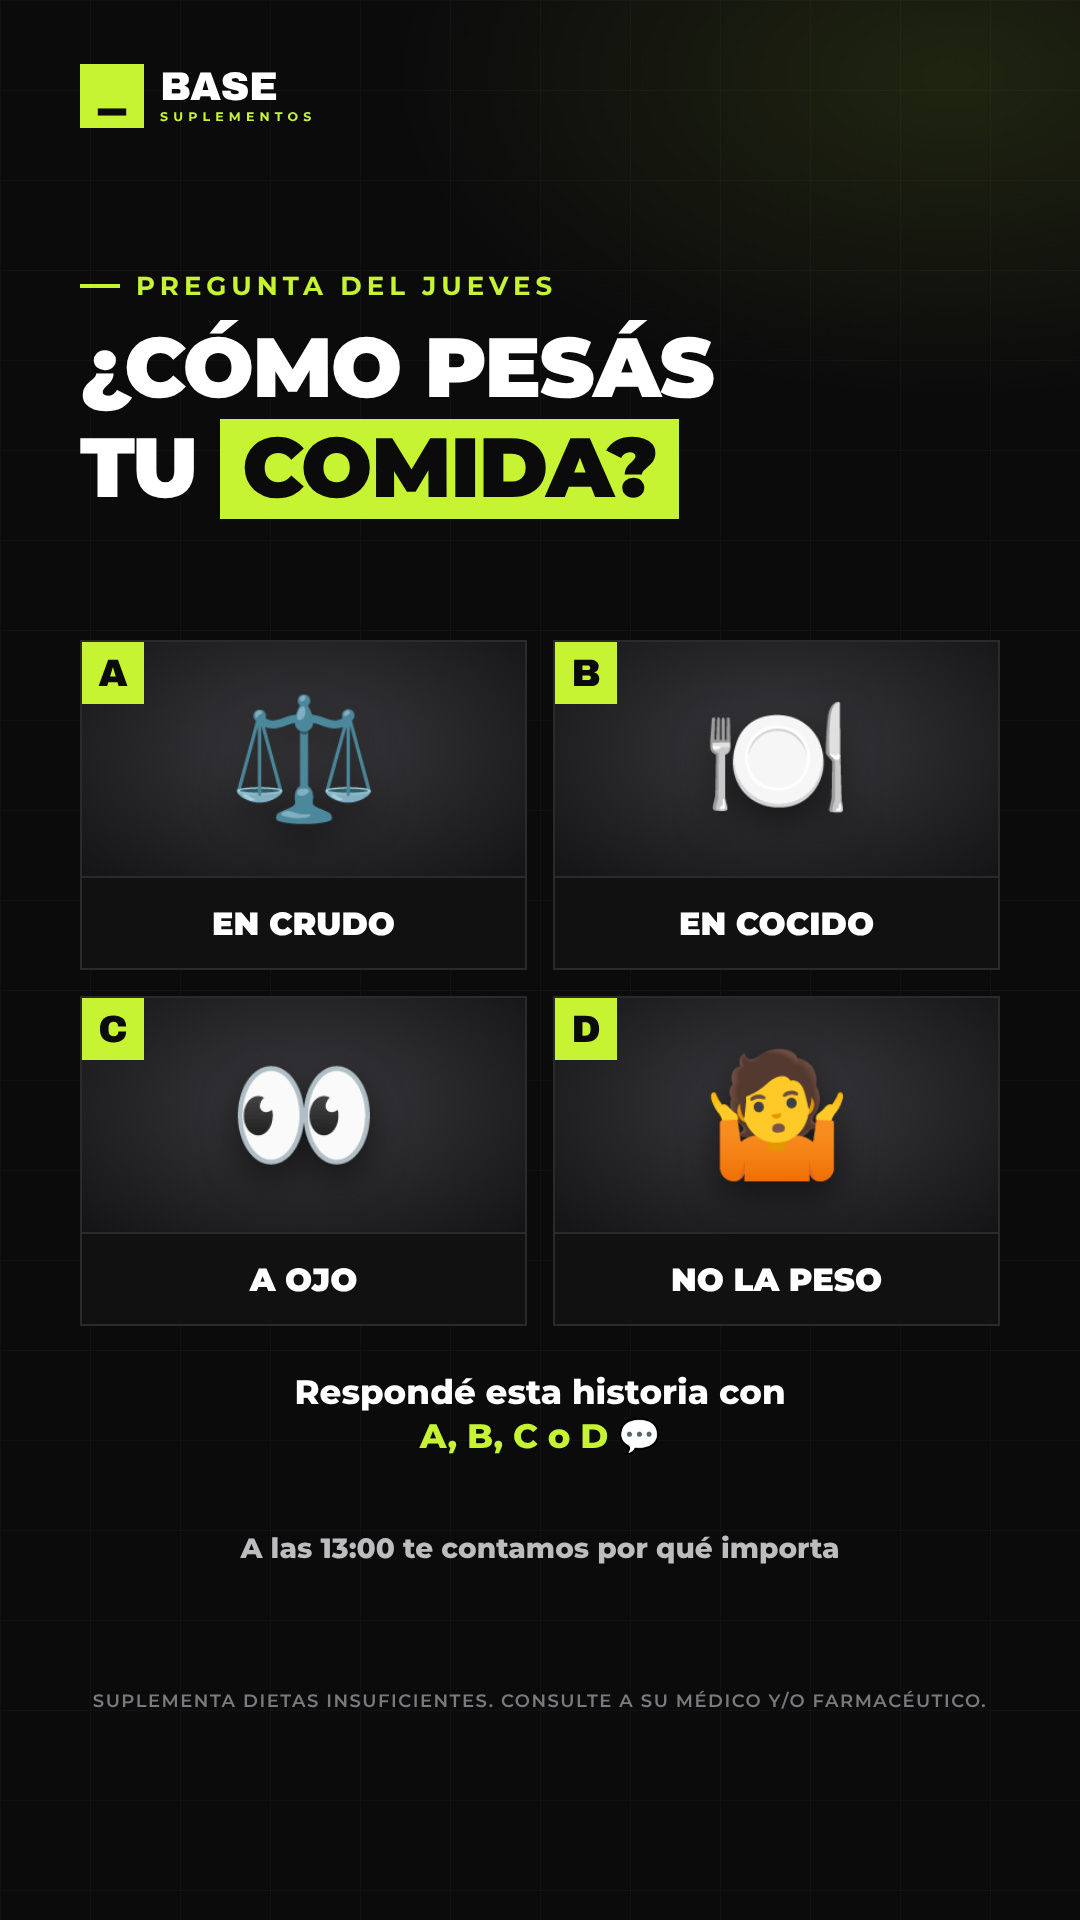
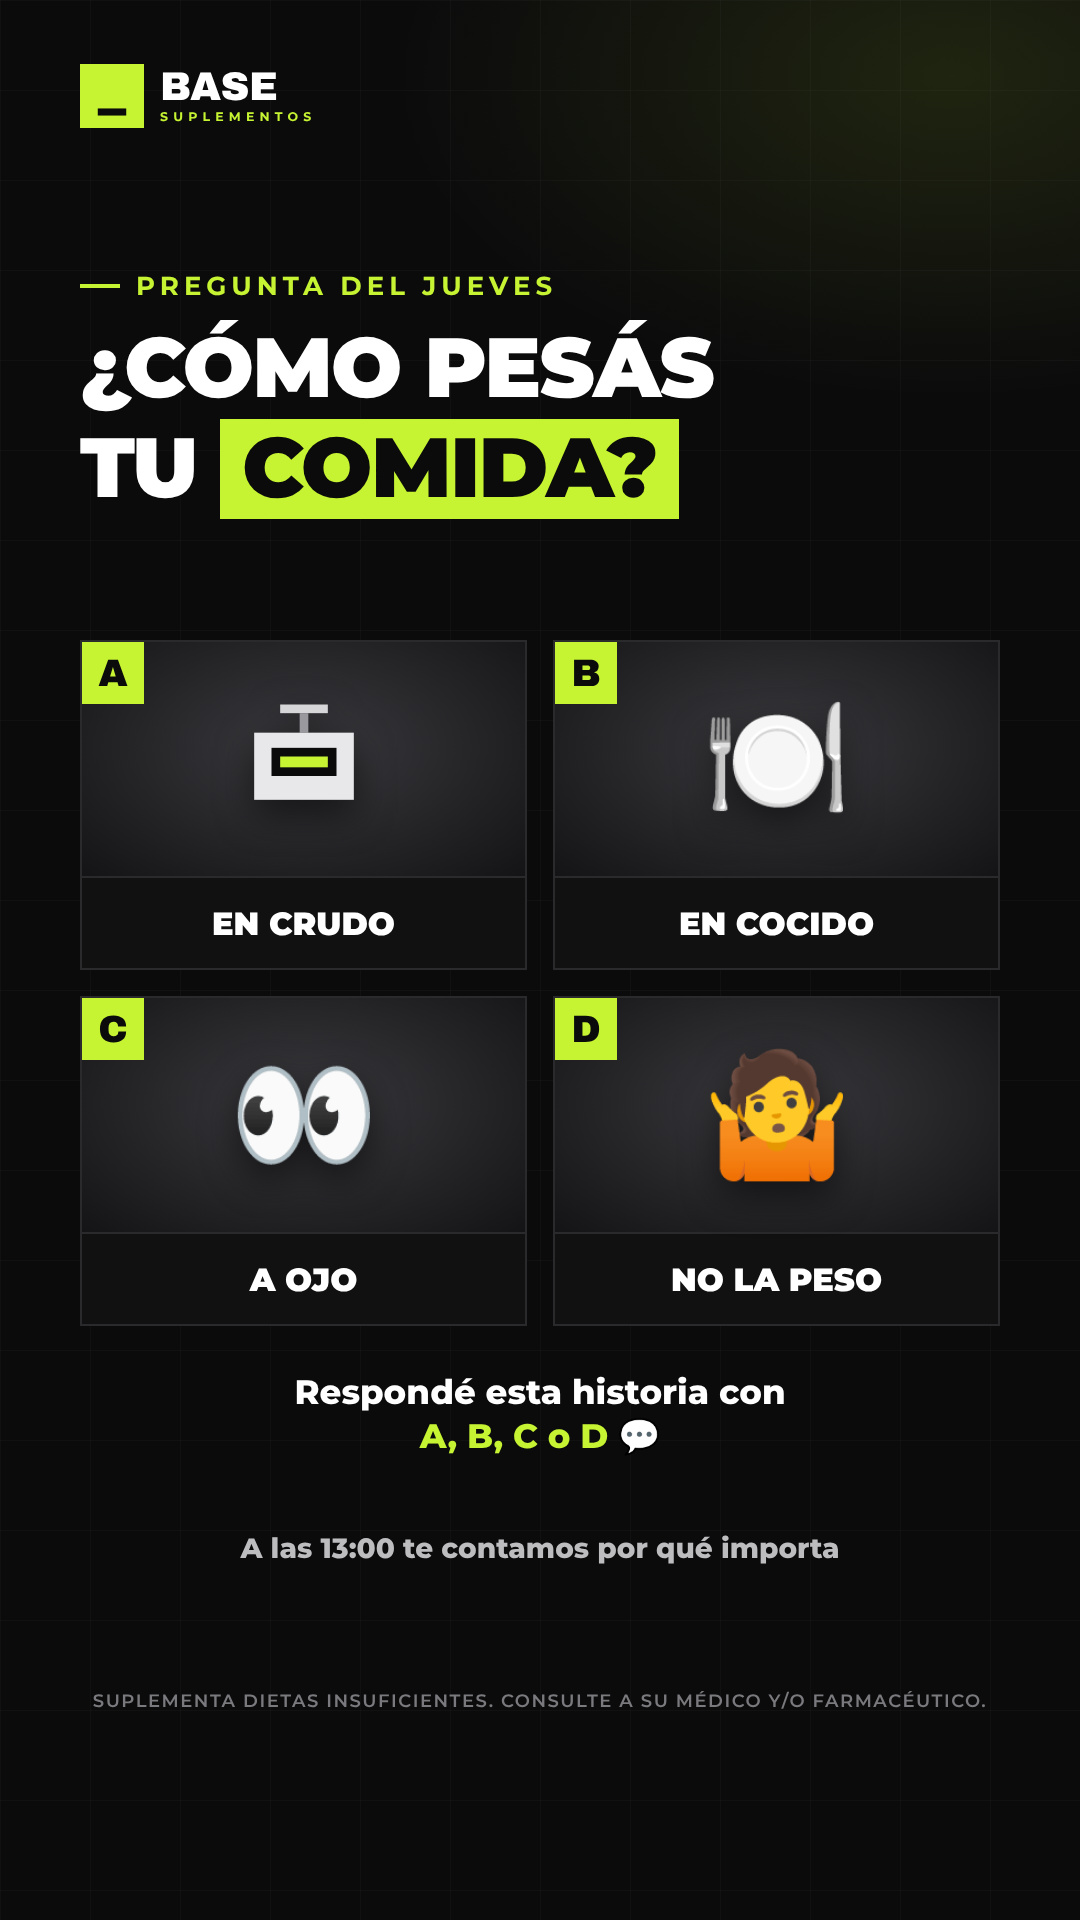
Contenido 2026-11-26: correcciones de la revisión
Claude-Session: https://claude.ai/code/session_01K6ccN48J2ed5Fjs4uTdjt6

Changed region(s): [[0.2139, 0.3438, 0.3361, 0.4375]]

diff --git a/kit/2026-11-26_posts.py b/kit/2026-11-26_posts.py
@@ -49,11 +49,17 @@ ST = '''<style>
 .mini img{height:250px;filter:drop-shadow(0 16px 22px rgba(0,0,0,.6))}
 </style>'''
 
+BALANZA = ('<svg viewBox="0 0 120 120" width="{w}" height="{w}"><rect x="38" y="18" width="44" height="8" fill="#d6d6d8"/>'
+           '<rect x="56" y="26" width="8" height="18" fill="#9a9a9e"/><rect x="14" y="44" width="92" height="62" fill="#e8e8ea"/>'
+           '<rect x="30" y="58" width="60" height="26" fill="#0B0B0C"/><rect x="38" y="66" width="44" height="10" fill="#C6F432"/></svg>')
+PECHUGA = ('<svg viewBox="0 0 120 120" width="140" height="140"><path d="M20 70 C14 40 40 18 70 22 C98 26 108 52 98 74 C88 98 52 104 34 94 C26 90 22 82 20 70 Z" fill="#F2C6A8" stroke="#D99A78" stroke-width="4"/>'
+           '<path d="M40 54 C55 46 72 46 86 54 M38 70 C55 62 74 62 90 70" stroke="#E0A988" stroke-width="4" fill="none"/></svg>')
+
 
 def fila(top, emoji, nombre, a_lab, a, b_lab, b, on='b'):
     ca = ' on' if on == 'a' else ''
     cb = ' on' if on == 'b' else ''
-    return (f'<div class="row" style="top:{top}px"><div class="ic">{E(emoji)}<b>{nombre}</b></div>'
+    return (f'<div class="row" style="top:{top}px"><div class="ic">{emoji if emoji.startswith("<svg") else E(emoji)}<b>{nombre}</b></div>'
             f'<div class="c{ca}"><small>{a_lab}</small><b>{a}<i>g</i></b></div><div class="ar">→</div>'
             f'<div class="c{cb}"><small>{b_lab}</small><b>{b}<i>g</i></b></div></div>')
 
@@ -77,15 +83,15 @@ a2 += '<div class="src" style="top:1135px">Fideos tipo spaghetti y arroz blanco,
 # 3 · El porqué + el giro: con la carne pasa al revés
 a3 = ST + '<div class="eb" style="top:190px">¿Por qué?</div>'
 a3 += '<div class="t" style="top:240px;font-size:72px">El agua<br><span class="box">cambia el peso</span></div>'
-a3 += f'<div class="why" style="top:450px">{E("💧")}<p>Al hervirlos <b>absorben agua</b>: pesan más, pero la proteína es la misma. Cada 100 g rinde menos.</p></div>'
+a3 += f'<div class="why" style="top:450px">{E("💧")}<p>Los fideos y el arroz, al hervirlos, <b>absorben agua</b>: pesan más, pero la proteína es la misma. Cada 100 g rinde menos.</p></div>'
 a3 += '<div class="txt" style="top:660px;font-size:33px"><b>Con la carne pasa al revés:</b> al cocinarse <em>pierde agua.</em></div>'
-a3 += fila(790, '🍗', 'Pechuga', 'cruda', '22,5', 'asada', '31')
+a3 += fila(790, PECHUGA, 'Pechuga', 'cruda', '22,5', 'asada', '31')
 a3 += '<div class="src" style="top:1070px">Pechuga de pollo sin piel, cada 100 g.<br>Fuente: <b>USDA FoodData Central</b>.</div>'
 
 # 4 · Qué hacer + cierre (guardar / compartir / comentar)
 a4 = ST + '<div class="eb" style="top:190px">Cómo no errarle</div>'
 a4 += '<div class="t" style="top:240px;font-size:72px">Pesá y leé<br><span class="box">igual</span></div>'
-a4 += (f'<div class="st" style="top:450px">{E("⚖")}<p><b>Pesá en crudo</b>y usá la tabla del <em>paquete.</em></p></div>'
+a4 += (f'<div class="st" style="top:450px"><div style="flex:0 0 100px;display:flex;justify-content:center">{BALANZA.format(w=96)}</div><p><b>Pesá en crudo</b>y usá la tabla del <em>paquete.</em></p></div>'
        f'<div class="st" style="top:645px">{E("🍽")}<p><b>¿Pesás en cocido?</b>Usá valores de alimento <em>cocido.</em></p></div>')
 a4 += (f'<div class="cta" style="top:880px">{E("📌",30)} <span>Guardalo</span> para tu próxima comida<br>'
        f'{E("📲",30)} <span>Mandáselo</span> al que cuenta la proteína del plato<br>'
@@ -115,5 +121,5 @@ b3 += ('<div style="position:absolute;left:410px;right:80px;top:470px"><div styl
 b3 += (f'<div class="st" style="top:790px;height:140px">{E("💬")}<p><b>Por WhatsApp</b><em>10% OFF</em> pagando por transferencia o efectivo.</p></div>'
        f'<div class="st" style="top:950px;height:140px">{E("💳")}<p><b>Online en la web</b>Con <em>Mercado Pago</em>, a precio de lista.</p></div>')
 b3 += '<div class="fine" style="top:1110px">Envíos a todo el país, a cargo de quien compra. WhatsApp 11 2178-9431, solo mensajes.</div>'
-b3 += f'<div class="btn" style="left:80px;bottom:76px;font-size:27px">{E("🛒",27)} PEDÍ LA TUYA · LINK EN LA BIO {ARROW}</div>'
+b3 += f'<div class="btn" style="left:80px;bottom:76px;font-size:27px">{E("🛒",27)} VER CATÁLOGO · LINK EN LA BIO {ARROW}</div>'
 print(render([page(1, b1, True, 3), page(2, b2, True, 3), page(3, b3, False, 3)], f'{OUT}/post2'))

diff --git a/queue/2026-11-26/2026-11-26_posts.py b/queue/2026-11-26/2026-11-26_posts.py
@@ -49,11 +49,17 @@ ST = '''<style>
 .mini img{height:250px;filter:drop-shadow(0 16px 22px rgba(0,0,0,.6))}
 </style>'''
 
+BALANZA = ('<svg viewBox="0 0 120 120" width="{w}" height="{w}"><rect x="38" y="18" width="44" height="8" fill="#d6d6d8"/>'
+           '<rect x="56" y="26" width="8" height="18" fill="#9a9a9e"/><rect x="14" y="44" width="92" height="62" fill="#e8e8ea"/>'
+           '<rect x="30" y="58" width="60" height="26" fill="#0B0B0C"/><rect x="38" y="66" width="44" height="10" fill="#C6F432"/></svg>')
+PECHUGA = ('<svg viewBox="0 0 120 120" width="140" height="140"><path d="M20 70 C14 40 40 18 70 22 C98 26 108 52 98 74 C88 98 52 104 34 94 C26 90 22 82 20 70 Z" fill="#F2C6A8" stroke="#D99A78" stroke-width="4"/>'
+           '<path d="M40 54 C55 46 72 46 86 54 M38 70 C55 62 74 62 90 70" stroke="#E0A988" stroke-width="4" fill="none"/></svg>')
+
 
 def fila(top, emoji, nombre, a_lab, a, b_lab, b, on='b'):
     ca = ' on' if on == 'a' else ''
     cb = ' on' if on == 'b' else ''
-    return (f'<div class="row" style="top:{top}px"><div class="ic">{E(emoji)}<b>{nombre}</b></div>'
+    return (f'<div class="row" style="top:{top}px"><div class="ic">{emoji if emoji.startswith("<svg") else E(emoji)}<b>{nombre}</b></div>'
             f'<div class="c{ca}"><small>{a_lab}</small><b>{a}<i>g</i></b></div><div class="ar">→</div>'
             f'<div class="c{cb}"><small>{b_lab}</small><b>{b}<i>g</i></b></div></div>')
 
@@ -77,15 +83,15 @@ a2 += '<div class="src" style="top:1135px">Fideos tipo spaghetti y arroz blanco,
 # 3 · El porqué + el giro: con la carne pasa al revés
 a3 = ST + '<div class="eb" style="top:190px">¿Por qué?</div>'
 a3 += '<div class="t" style="top:240px;font-size:72px">El agua<br><span class="box">cambia el peso</span></div>'
-a3 += f'<div class="why" style="top:450px">{E("💧")}<p>Al hervirlos <b>absorben agua</b>: pesan más, pero la proteína es la misma. Cada 100 g rinde menos.</p></div>'
+a3 += f'<div class="why" style="top:450px">{E("💧")}<p>Los fideos y el arroz, al hervirlos, <b>absorben agua</b>: pesan más, pero la proteína es la misma. Cada 100 g rinde menos.</p></div>'
 a3 += '<div class="txt" style="top:660px;font-size:33px"><b>Con la carne pasa al revés:</b> al cocinarse <em>pierde agua.</em></div>'
-a3 += fila(790, '🍗', 'Pechuga', 'cruda', '22,5', 'asada', '31')
+a3 += fila(790, PECHUGA, 'Pechuga', 'cruda', '22,5', 'asada', '31')
 a3 += '<div class="src" style="top:1070px">Pechuga de pollo sin piel, cada 100 g.<br>Fuente: <b>USDA FoodData Central</b>.</div>'
 
 # 4 · Qué hacer + cierre (guardar / compartir / comentar)
 a4 = ST + '<div class="eb" style="top:190px">Cómo no errarle</div>'
 a4 += '<div class="t" style="top:240px;font-size:72px">Pesá y leé<br><span class="box">igual</span></div>'
-a4 += (f'<div class="st" style="top:450px">{E("⚖")}<p><b>Pesá en crudo</b>y usá la tabla del <em>paquete.</em></p></div>'
+a4 += (f'<div class="st" style="top:450px"><div style="flex:0 0 100px;display:flex;justify-content:center">{BALANZA.format(w=96)}</div><p><b>Pesá en crudo</b>y usá la tabla del <em>paquete.</em></p></div>'
        f'<div class="st" style="top:645px">{E("🍽")}<p><b>¿Pesás en cocido?</b>Usá valores de alimento <em>cocido.</em></p></div>')
 a4 += (f'<div class="cta" style="top:880px">{E("📌",30)} <span>Guardalo</span> para tu próxima comida<br>'
        f'{E("📲",30)} <span>Mandáselo</span> al que cuenta la proteína del plato<br>'
@@ -115,5 +121,5 @@ b3 += ('<div style="position:absolute;left:410px;right:80px;top:470px"><div styl
 b3 += (f'<div class="st" style="top:790px;height:140px">{E("💬")}<p><b>Por WhatsApp</b><em>10% OFF</em> pagando por transferencia o efectivo.</p></div>'
        f'<div class="st" style="top:950px;height:140px">{E("💳")}<p><b>Online en la web</b>Con <em>Mercado Pago</em>, a precio de lista.</p></div>')
 b3 += '<div class="fine" style="top:1110px">Envíos a todo el país, a cargo de quien compra. WhatsApp 11 2178-9431, solo mensajes.</div>'
-b3 += f'<div class="btn" style="left:80px;bottom:76px;font-size:27px">{E("🛒",27)} PEDÍ LA TUYA · LINK EN LA BIO {ARROW}</div>'
+b3 += f'<div class="btn" style="left:80px;bottom:76px;font-size:27px">{E("🛒",27)} VER CATÁLOGO · LINK EN LA BIO {ARROW}</div>'
 print(render([page(1, b1, True, 3), page(2, b2, True, 3), page(3, b3, False, 3)], f'{OUT}/post2'))

diff --git a/kit/2026-11-26_historias.py b/kit/2026-11-26_historias.py
@@ -1,4 +1,4 @@
-"""Historias del 26/11/2026 (1080×1920): 11:00 ¿cómo pesás tu comida? · 15:00 producto del día Creatina Gold 1 kg
+"""Historias del 26/11/2026 (1080×1920): 11:00 ¿cómo pesás tu comida? · 15:00 producto del día Omega 3 Gold 30 caps
 · 18:00 sorteo (quedan 2 días, contando hoy) · 21:30 recordatorio del reel «3 errores con la creatina».
 Precios: kit/README.md. Frase de creatina permitida (EFSA). Sorteo: campanas/sorteo-creatinas/bases.md."""
 import sys, os; sys.path.insert(0, os.path.dirname(os.path.abspath(__file__)))
@@ -40,6 +40,11 @@ CAT = f'<div class="vote" style="top:1585px;font-size:28px;letter-spacing:1.5px;
 LEG = f'<div class="legal" style="bottom:auto;top:1690px">{LEGAL_TXT}</div>'
 
 
+BAL = ('<svg viewBox="0 0 120 120" width="130" height="130"><rect x="38" y="18" width="44" height="8" fill="#d6d6d8"/>'
+       '<rect x="56" y="26" width="8" height="18" fill="#9a9a9e"/><rect x="14" y="44" width="92" height="62" fill="#e8e8ea"/>'
+       '<rect x="30" y="58" width="60" height="26" fill="#0B0B0C"/><rect x="38" y="66" width="44" height="10" fill="#C6F432"/></svg>')
+
+
 def op4(ops, top):
     return f'<div class="op4" style="top:{top}px">' + ''.join(
         f'<div class="o"><div class="ph">{E(e)}</div><div class="lt">{l}</div><div class="nm">{n}</div></div>' for l, e, n in ops) + '</div>'
@@ -51,16 +56,16 @@ def tile(f, chip, ft):
 # 11:00 · ARRANQUE (pregunta A/B/C/D, adelanta el tema del post de las 13:00 sin dar la respuesta)
 h1 = ST + '<div class="eb" style="top:270px">Pregunta del jueves</div>'
 h1 += '<div class="t" style="top:325px;font-size:84px">¿Cómo pesás<br>tu <span class="box">comida?</span></div>'
-h1 += op4([('A', '⚖', 'En crudo'), ('B', '🍽', 'En cocido'), ('C', '👀', 'A ojo'), ('D', '🤷', 'No la peso')], 640)
+h1 += op4([('A', BAL, 'En crudo'), ('B', '🍽', 'En cocido'), ('C', '👀', 'A ojo'), ('D', '🤷', 'No la peso')], 640)
 h1 += f'<div class="vote" style="top:1370px">Respondé esta historia con<br><span>A, B, C o D</span> {E("💬",34)}</div>'
 h1 += f'<div class="vote" style="top:1530px;font-size:28px;color:#bdbdc0">A las 13:00 te contamos por qué importa</div>'
 h1 += LEG
 
 # 15:00 · PRODUCTO DEL DÍA
 h2 = ST + '<div class="eb" style="top:270px">Producto del día</div>'
-h2 += '<div class="t" style="top:325px;font-size:92px">Creatina<br><span class="box">Gold 1 kg</span></div>'
-h2 += tiles([('gold_crea1kg', pf('Creatina Gold 1 kg', '$57.900'))], 620, 760, 560).replace('class="tiles"', 'class="tiles pd"')
-h2 += '<div class="tipb" style="top:1400px">Con al menos 3 g por día, aumenta el rendimiento físico en series sucesivas de ejercicios cortos de alta intensidad.<br><b>Precio por transferencia o efectivo.</b></div>'
+h2 += '<div class="t" style="top:325px;font-size:92px">Omega 3<br><span class="box">Gold</span></div>'
+h2 += tiles([('gold_omega3', pf('Omega 3 Gold 30 caps', '$28.900'))], 620, 760, 560).replace('class="tiles"', 'class="tiles pd"')
+h2 += '<div class="tipb" style="top:1400px">Mirá en la etiqueta cuánto EPA y DHA trae cada porción.<br><b>Precio por transferencia o efectivo.</b></div>'
 h2 += CAT + LEG
 
 # 18:00 · SORTEO (quedan 2 días: hoy jueves y mañana viernes 27/11)
@@ -70,7 +75,7 @@ h3 += '<div class="cd" style="top:560px"><div class="n"><b>2</b><span>DÍAS</spa
 h3 += ('<div class="tiles sz" style="top:920px;--w:430px;--h:360px;--g:26px">'
        + tile('creatina_gold_300g', '×2', cf('Creatina Gold 300 g', 28))
        + tile('creatina_star_300g', '×1', cf('Creatina Star 300 g', 28)) + '</div>')
-h3 += f'<div class="vote" style="top:1400px">{E("👉",34)} Participá en el<br><span>post del sorteo</span></div>'
+h3 += f'<div class="vote" style="top:1400px">{E("👉",34)} Participá en el <span>post del sorteo</span><br><span style="color:#d6d6d8;font-size:30px">fijado en nuestro perfil</span></div>'
 h3 += f'<div class="vote" style="top:1530px;font-size:28px;color:#bdbdc0">Seguinos, dale me gusta y comentá etiquetando a 2 personas</div>'
 h3 += LEG
 

diff --git a/queue/2026-11-26/2026-11-26_historias.py b/queue/2026-11-26/2026-11-26_historias.py
@@ -1,4 +1,4 @@
-"""Historias del 26/11/2026 (1080×1920): 11:00 ¿cómo pesás tu comida? · 15:00 producto del día Creatina Gold 1 kg
+"""Historias del 26/11/2026 (1080×1920): 11:00 ¿cómo pesás tu comida? · 15:00 producto del día Omega 3 Gold 30 caps
 · 18:00 sorteo (quedan 2 días, contando hoy) · 21:30 recordatorio del reel «3 errores con la creatina».
 Precios: kit/README.md. Frase de creatina permitida (EFSA). Sorteo: campanas/sorteo-creatinas/bases.md."""
 import sys, os; sys.path.insert(0, os.path.dirname(os.path.abspath(__file__)))
@@ -40,6 +40,11 @@ CAT = f'<div class="vote" style="top:1585px;font-size:28px;letter-spacing:1.5px;
 LEG = f'<div class="legal" style="bottom:auto;top:1690px">{LEGAL_TXT}</div>'
 
 
+BAL = ('<svg viewBox="0 0 120 120" width="130" height="130"><rect x="38" y="18" width="44" height="8" fill="#d6d6d8"/>'
+       '<rect x="56" y="26" width="8" height="18" fill="#9a9a9e"/><rect x="14" y="44" width="92" height="62" fill="#e8e8ea"/>'
+       '<rect x="30" y="58" width="60" height="26" fill="#0B0B0C"/><rect x="38" y="66" width="44" height="10" fill="#C6F432"/></svg>')
+
+
 def op4(ops, top):
     return f'<div class="op4" style="top:{top}px">' + ''.join(
         f'<div class="o"><div class="ph">{E(e)}</div><div class="lt">{l}</div><div class="nm">{n}</div></div>' for l, e, n in ops) + '</div>'
@@ -51,16 +56,16 @@ def tile(f, chip, ft):
 # 11:00 · ARRANQUE (pregunta A/B/C/D, adelanta el tema del post de las 13:00 sin dar la respuesta)
 h1 = ST + '<div class="eb" style="top:270px">Pregunta del jueves</div>'
 h1 += '<div class="t" style="top:325px;font-size:84px">¿Cómo pesás<br>tu <span class="box">comida?</span></div>'
-h1 += op4([('A', '⚖', 'En crudo'), ('B', '🍽', 'En cocido'), ('C', '👀', 'A ojo'), ('D', '🤷', 'No la peso')], 640)
+h1 += op4([('A', BAL, 'En crudo'), ('B', '🍽', 'En cocido'), ('C', '👀', 'A ojo'), ('D', '🤷', 'No la peso')], 640)
 h1 += f'<div class="vote" style="top:1370px">Respondé esta historia con<br><span>A, B, C o D</span> {E("💬",34)}</div>'
 h1 += f'<div class="vote" style="top:1530px;font-size:28px;color:#bdbdc0">A las 13:00 te contamos por qué importa</div>'
 h1 += LEG
 
 # 15:00 · PRODUCTO DEL DÍA
 h2 = ST + '<div class="eb" style="top:270px">Producto del día</div>'
-h2 += '<div class="t" style="top:325px;font-size:92px">Creatina<br><span class="box">Gold 1 kg</span></div>'
-h2 += tiles([('gold_crea1kg', pf('Creatina Gold 1 kg', '$57.900'))], 620, 760, 560).replace('class="tiles"', 'class="tiles pd"')
-h2 += '<div class="tipb" style="top:1400px">Con al menos 3 g por día, aumenta el rendimiento físico en series sucesivas de ejercicios cortos de alta intensidad.<br><b>Precio por transferencia o efectivo.</b></div>'
+h2 += '<div class="t" style="top:325px;font-size:92px">Omega 3<br><span class="box">Gold</span></div>'
+h2 += tiles([('gold_omega3', pf('Omega 3 Gold 30 caps', '$28.900'))], 620, 760, 560).replace('class="tiles"', 'class="tiles pd"')
+h2 += '<div class="tipb" style="top:1400px">Mirá en la etiqueta cuánto EPA y DHA trae cada porción.<br><b>Precio por transferencia o efectivo.</b></div>'
 h2 += CAT + LEG
 
 # 18:00 · SORTEO (quedan 2 días: hoy jueves y mañana viernes 27/11)
@@ -70,7 +75,7 @@ h3 += '<div class="cd" style="top:560px"><div class="n"><b>2</b><span>DÍAS</spa
 h3 += ('<div class="tiles sz" style="top:920px;--w:430px;--h:360px;--g:26px">'
        + tile('creatina_gold_300g', '×2', cf('Creatina Gold 300 g', 28))
        + tile('creatina_star_300g', '×1', cf('Creatina Star 300 g', 28)) + '</div>')
-h3 += f'<div class="vote" style="top:1400px">{E("👉",34)} Participá en el<br><span>post del sorteo</span></div>'
+h3 += f'<div class="vote" style="top:1400px">{E("👉",34)} Participá en el <span>post del sorteo</span><br><span style="color:#d6d6d8;font-size:30px">fijado en nuestro perfil</span></div>'
 h3 += f'<div class="vote" style="top:1530px;font-size:28px;color:#bdbdc0">Seguinos, dale me gusta y comentá etiquetando a 2 personas</div>'
 h3 += LEG
 

diff --git a/kit/historial.md b/kit/historial.md
@@ -41,4 +41,4 @@ Agregar una línea por cada flyer nuevo: fecha · tema · formato.
 - 2026-11-20 · Post 13:00 [EDUCA]: esto o aquello «¿clara o yema: cuál tiene más proteína cada 100 g?» (gana la yema 15,9 g vs clara 10,9 g; 322 vs 52 kcal; giro: por unidad gana la clara 3,6 g vs 2,7 g porque pesa ≈ 33 g vs 17 g; huevo grande entero 6,3 g; USDA) · carrusel 4 slides + Post 19:30 [MAYORISTAS]: «¿Tenés un gimnasio? Sumá suplementos» (3 categorías básicas: proteínas, creatinas, pre-entrenos; 5 marcas por mayor; cómo pedir la lista en 3 pasos con MAYORISTA) · carrusel 4 slides + reel 20:30 animado «¿clara o yema? en 20 segundos» (quiz + 6,3 g + ENA Whey vs Star Whey + Combo ENA) + historias: A/B/C/D «¿cómo comés el huevo?», producto del día ON Micronised Creatine, recordatorio del sorteo «quedan 8 días contando hoy», cierre B2B «¿Tenés un negocio? Mandá MAYORISTA» + recordatorio del post de las 19:30
 - 2026-11-24 (armado por Claude en Cowork: 21–23/11 no salió nada por límite de uso) · Post 13:00 [EDUCA]: «¿cuánta proteína necesitás por día?» (ISSN 2017: 1,4–2 g/kg; tabla 60/70/80/90 kg; 20–40 g por comida; pechuga ≈31 g/100 g, huevo ≈6 g, USDA) + Star Whey 2 lb · carrusel 4 · Post 19:30 [PRODUCTOS]: guía «¿qué creatina me llevo?» (doypacks 300 g / Creapure y ON / 1 kg, con precios) · carrusel 4 · Reel 20:30 animado «¿cuánta proteína por día?» · Historias: A/B/C/D ¿cuánta proteína comés?, producto del día Creatina Gold 300 g, sorteo «quedan 4 días», B2B mayoristas.
 - 2026-11-25 · CONFIANZA «Las marcas que encontrás en BASE» · PRODUCTOS «Magnesio: 3 opciones» · reel «¿Cuánto rinde tu creatina?» (300 g = 100 días, 1 kg ≈ 333 días) · historias: ¿qué marca usás? / magnesio Star / sorteo quedan 3 días / cómo comprar
-- 2026-11-26 · Post 13:00 [EDUCA]: error común «¿100 g de fideos = 13 g de proteína?» (solo secos: fideos 13 → 5,8 g, arroz 7,1 → 2,7 g cocidos porque absorben agua; giro: la pechuga pierde agua, 22,5 g cruda → 31 g asada; pesá en crudo con la tabla del paquete o usá valores de cocido; USDA) · carrusel 4 slides + Post 19:30 [PRODUCTOS]: producto destacado MyProtein Impact Whey 1 kg $78.900 (3 formas de tomarla: shake, avena, panqueques; cómo pedir) · carrusel 3 slides + reel 20:30 «3 errores con la creatina» (cargado por Valentín) + historias: A/B/C/D «¿cómo pesás tu comida?», producto del día Creatina Gold 1 kg, sorteo «quedan 2 días: hoy y mañana», recordatorio del reel «3 errores con la creatina»
+- 2026-11-26 · Post 13:00 [EDUCA]: error común «¿100 g de fideos = 13 g de proteína?» (solo secos: fideos 13 → 5,8 g, arroz 7,1 → 2,7 g cocidos porque absorben agua; giro: la pechuga pierde agua, 22,5 g cruda → 31 g asada; pesá en crudo con la tabla del paquete o usá valores de cocido; USDA) · carrusel 4 slides + Post 19:30 [PRODUCTOS]: producto destacado MyProtein Impact Whey 1 kg $78.900 (3 formas de tomarla: shake, avena, panqueques; cómo pedir) · carrusel 3 slides + reel 20:30 «3 errores con la creatina» (cargado por Valentín) + historias: A/B/C/D «¿cómo pesás tu comida?», producto del día Omega 3 Gold 30 caps, sorteo «quedan 2 días: hoy y mañana», recordatorio del reel «3 errores con la creatina»
